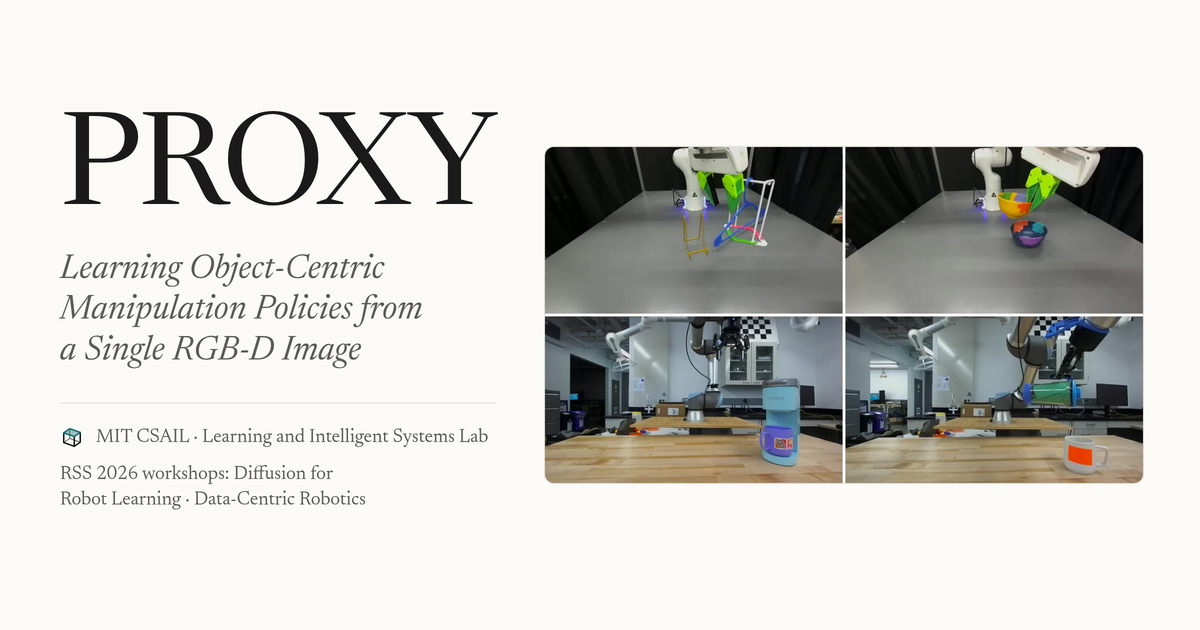
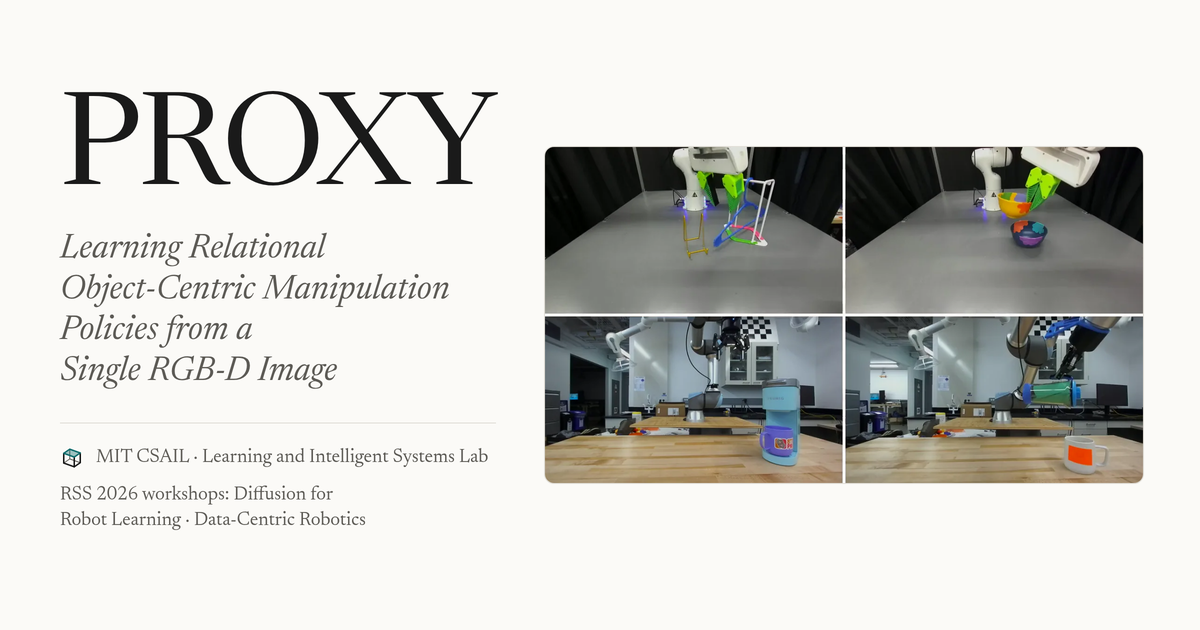
Retitle: Learning Relational Object-Centric Manipulation Policies from a Single RGB-D Image
Masthead subtitle, page title, OG/JSON-LD metadata, BibTeX, README and the social card.
Balance the subtitle's line breaks and keep "Object-Centric" and "RGB-D" unbroken.

Changed region(s): [[0.0308, 0.3619, 0.37, 0.6333], [0.0617, 0.1206, 0.4317, 0.3317], [0.0308, 0.6635, 0.4008, 0.8444]]

diff --git a/index.html b/index.html
@@ -3,19 +3,19 @@
 <head>
 <meta charset="utf-8">
 <meta name="viewport" content="width=device-width, initial-scale=1">
-<title>PROXY: Learning Object-Centric Manipulation Policies from a Single RGB-D Image</title>
+<title>PROXY: Learning Relational Object-Centric Manipulation Policies from a Single RGB-D Image</title>
 <meta name="description" content="PROXY learns an object-centric robot manipulation policy from a single RGB-D image and a sentence describing the task, using generated videos in place of real demonstrations. Accepted at the RSS 2026 Diffusion for Robot Learning and Data-Centric Robotics workshops.">
 <meta name="color-scheme" content="light dark">
 <meta name="theme-color" media="(prefers-color-scheme: light)" content="#fbfaf7">
 <meta name="theme-color" media="(prefers-color-scheme: dark)" content="#141413">
 <link rel="canonical" href="https://skymanaditya1.github.io/proxy-website/">
-<meta property="og:title" content="PROXY: Learning Object-Centric Manipulation Policies from a Single RGB-D Image">
+<meta property="og:title" content="PROXY: Learning Relational Object-Centric Manipulation Policies from a Single RGB-D Image">
 <meta property="og:type" content="website">
 <meta property="og:url" content="https://skymanaditya1.github.io/proxy-website/">
 <meta property="og:image" content="https://skymanaditya1.github.io/proxy-website/img/og.png">
 <meta property="og:image:width" content="1200">
 <meta property="og:image:height" content="630">
-<meta property="og:image:alt" content="Title card: PROXY, Learning Object-Centric Manipulation Policies from a Single RGB-D Image, next to four robot runs: a Franka Panda hooking a hanger and stacking bowls, a UR5 placing a mug under a coffee machine and pouring from a pitcher.">
+<meta property="og:image:alt" content="Title card: PROXY, Learning Relational Object-Centric Manipulation Policies from a Single RGB-D Image, next to four robot runs: a Franka Panda hooking a hanger and stacking bowls, a UR5 placing a mug under a coffee machine and pouring from a pitcher.">
 <meta property="og:description" content="PROXY turns one RGB-D image and a sentence describing the task into generated demonstration videos, and trains an object-centric manipulation policy on them. No real demonstrations are collected. Accepted at the RSS 2026 Diffusion for Robot Learning and Data-Centric Robotics workshops.">
 <meta property="og:site_name" content="PROXY">
 <meta name="twitter:card" content="summary_large_image">
@@ -42,8 +42,8 @@
 {
   "@context": "https://schema.org",
   "@type": "ScholarlyArticle",
-  "headline": "PROXY: Learning Object-Centric Manipulation Policies from a Single RGB-D Image",
-  "name": "PROXY: Learning Object-Centric Manipulation Policies from a Single RGB-D Image",
+  "headline": "PROXY: Learning Relational Object-Centric Manipulation Policies from a Single RGB-D Image",
+  "name": "PROXY: Learning Relational Object-Centric Manipulation Policies from a Single RGB-D Image",
   "description": "PROXY learns a task-specific, object-centric manipulation policy from a single RGB-D image and a natural-language task description, training on generated demonstration videos instead of real-world data.",
   "url": "https://skymanaditya1.github.io/proxy-website/",
   "image": "https://skymanaditya1.github.io/proxy-website/img/og.png",
@@ -72,7 +72,7 @@
     </button>
   </div>
   <h1>PROXY</h1>
-  <p class="subtitle">Learning Object-Centric Manipulation Policies from a Single RGB-D Image</p>
+  <p class="subtitle">Learning Relational <span class="nowrap">Object-Centric</span> Manipulation Policies from a Single <span class="nowrap">RGB-D</span> Image</p>
   <p class="authors">
     <span class="author-row"><span>Maggie Huili Yao,</span> <span>Sahit Chintalapudi,</span> <span>Tiffany Zhang,</span> <span>Akash Anand,</span> <span>Megha Tippur,</span></span>
     <span class="author-row"><span><a href="https://people.csail.mit.edu/tlp/">Tomás Lozano-Pérez</a>,</span> <span><a href="https://people.csail.mit.edu/lpk/">Leslie Pack Kaelbling</a>,</span> <span><a href="https://skymanaditya1.github.io">Aditya Agarwal</a></span></span>
@@ -588,7 +588,7 @@
   </div>
   <div class="wrap bib">
 <pre id="bib-text">@misc{yao2026proxy,
-  title  = {{PROXY}: Learning Object-Centric Manipulation Policies from a Single {RGB-D} Image},
+  title  = {{PROXY}: Learning Relational Object-Centric Manipulation Policies from a Single {RGB-D} Image},
   author = {Yao, Maggie Huili and Chintalapudi, Sahit and Zhang, Tiffany and Anand, Akash and Tippur, Megha and Lozano-P{\'e}rez, Tom{\'a}s and Kaelbling, Leslie Pack and Agarwal, Aditya},
   year   = {2026},
   url    = {https://skymanaditya1.github.io/proxy-website/}

diff --git a/style.css b/style.css
@@ -160,7 +160,8 @@ figcaption .enlarge:hover { border-color: var(--ink); }
 /* ---------- masthead ---------- */
 .masthead { padding-block: 1.5rem 1rem; }
 .masthead-top { display: flex; justify-content: flex-end; align-items: center; gap: 1rem; margin-bottom: .5rem; }
-.subtitle { font-size: clamp(1.25rem, 1.05rem + .9vw, 1.7rem); font-style: italic; font-weight: 400; color: var(--muted); margin: 0 0 1.25rem; line-height: 1.3; }
+.subtitle { font-size: clamp(1.25rem, 1.05rem + .9vw, 1.7rem); font-style: italic; font-weight: 400; color: var(--muted); margin: 0 0 1.25rem; line-height: 1.3; text-wrap: balance; }
+.nowrap { white-space: nowrap; }
 .authors { margin-bottom: .35rem; }
 .authors span { white-space: nowrap; }
 .authors .author-row { display: block; white-space: normal; }

diff --git a/tools/og-card.html b/tools/og-card.html
@@ -50,7 +50,7 @@
 <body>
   <div class="text">
     <h1>PROXY</h1>
-    <p class="subtitle">Learning Object-Centric Manipulation Policies from a Single RGB-D Image</p>
+    <p class="subtitle">Learning Relational <span style="white-space: nowrap">Object-Centric</span> Manipulation Policies from a Single <span style="white-space: nowrap">RGB-D</span> Image</p>
     <hr>
     <p class="lab"><img src="favicon.svg" alt="">MIT CSAIL · Learning and Intelligent Systems Lab</p>
     <p class="venue">RSS 2026 workshops: Diffusion for Robot Learning · Data-Centric Robotics</p>

diff --git a/README.md b/README.md
@@ -1,6 +1,6 @@
 # PROXY project page
 
-Static project page for *PROXY: Learning Object-Centric Manipulation Policies from a
+Static project page for *PROXY: Learning Relational Object-Centric Manipulation Policies from a
 Single RGB-D Image* by Maggie Huili Yao, Sahit Chintalapudi, Tiffany Zhang, Akash Anand, Megha Tippur,
 Tomás Lozano-Pérez, Leslie Pack Kaelbling and Aditya Agarwal (MIT CSAIL, Learning and
 Intelligent Systems Lab). Planned address:
